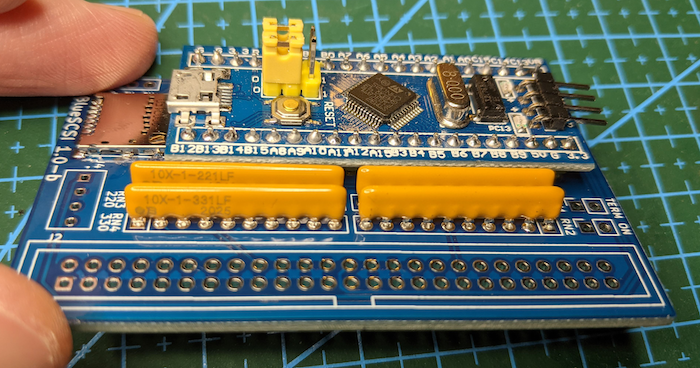
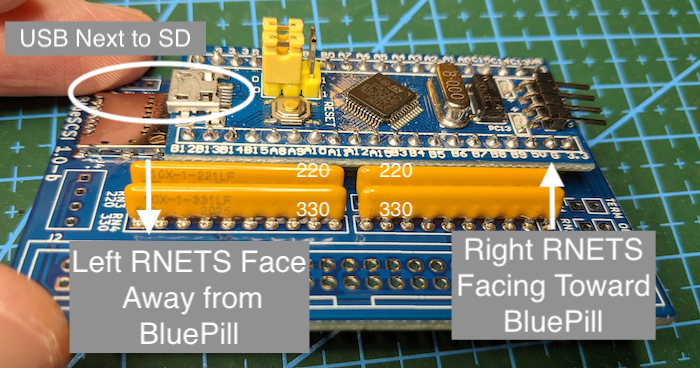
Cleanup

diff --git a/docs/assembly.md b/docs/assembly.md
@@ -10,23 +10,22 @@ Read through all instructions before starting.
     - Once on, check continuity of all connections. Fixing this after the BluePill is on will be difficult.
     - Ensure the SD card fits and you dont have too much solder on the sides or contacts
 2. Solder the dioeds to the **bottom** of the board. Be sure they are flush as possible to the bottom.
-
 ![Diode Orientation](images/diodes.png)
-1. Solder the header pins on to the BluePill. Then BluePill pill to the BlueSCSI PCB.
+3. Solder the header pins on to the BluePill. Then BluePill pill to the BlueSCSI PCB.
     - Correct orientation is having the USB connector of the BluePill should be over the SD Card holder.
-2. Solder on the Resistor nets. Pin one is marked on the board and the resistors.
-   - 220 RNETS are closest to the BluePill
+4. Solder on the resistor nets. Pin one is marked on the board and the resistors.
+   - 220 RNETS (`RN1` & `RN3`) are closest to the BluePill
      - Note PIN one on each - they are opposite of eachtoher. See photo.
-   - 330 RNETS are furthest from the BluePill
+   - 330 RNETS (`RN2` & `RN4`) are furthest from the BluePill
      - Note PIN one on each - they are opposite of eachtoher. See photo.
-     
 ![Orientation RNETs and BluePill](images/orientation.png)
-1. Solder on the Termination Jumpers & place the jumpers on to enable Termiation
-2. Solder the 50 Pin headers on. 
+5. Solder on the Termination Jumpers & place the jumpers on to enable Termiation
+6. Solder the 50 Pin headers on.
    1. Note Pin 1 and Box header on the silk screen.
-3. Optional - Solder on the berg connector. Only needed if your machine does not supply enough power via the SCSI bus.
-4. Optional - Solder on the debug headers near the SD card. Only nessissarry if re-programming.
+7. Optional - Solder on the berg connector. Only needed if your machine does not supply enough power via the SCSI bus.
+8. Optional - Solder on the debug headers near the SD card. Only nessissarry if re-programming.
 
+### Fully Assembled
 ![Fully Assembled](images/assembled.png)
 
 ### Version 1.0-b BOM
